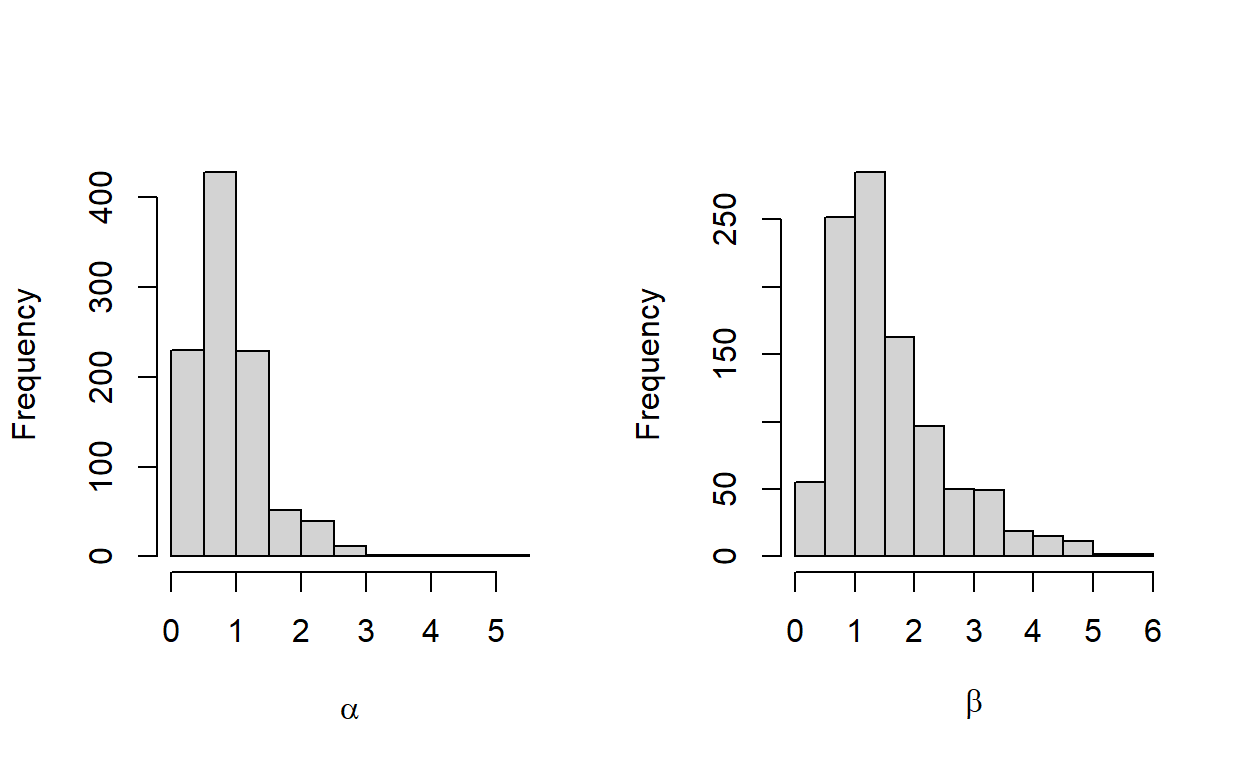
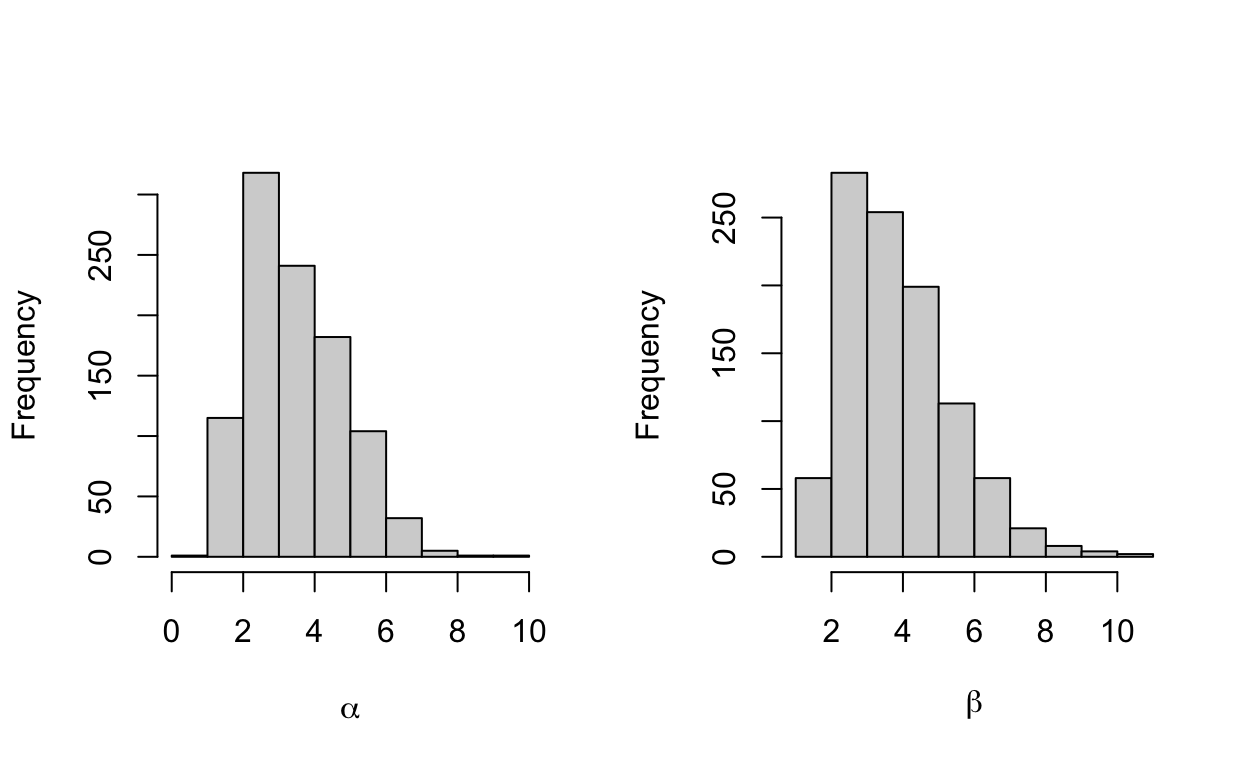
setting seeds

diff --git a/docs/gibbs.html b/docs/gibbs.html
@@ -2308,7 +2308,8 @@ b_{j+1}|a_{j+1},\vec{X}
 <p>Note that we are choosing to simulate a data distribution that matches our prior. Although this is unrealistic, it indicates that our Gibbs Sampling will be a good representation of our model.</p>
 <div class="layout-chunk" data-layout="l-body">
 <div class="sourceCode">
-<pre class="sourceCode r"><code class="sourceCode r"><span><span class='co'># store posterior samples of a and b</span></span>
+<pre class="sourceCode r"><code class="sourceCode r"><span><span class='fu'><a href='https://rdrr.io/r/base/Random.html'>set.seed</a></span><span class='op'>(</span><span class='fl'>1</span><span class='op'>)</span></span>
+<span><span class='co'># store posterior samples of a and b</span></span>
 <span><span class='va'>alphas</span> <span class='op'>&lt;-</span> <span class='fu'><a href='https://rdrr.io/r/base/c.html'>c</a></span><span class='op'>(</span><span class='op'>)</span></span>
 <span><span class='va'>betas</span> <span class='op'>&lt;-</span> <span class='fu'><a href='https://rdrr.io/r/base/c.html'>c</a></span><span class='op'>(</span><span class='op'>)</span></span>
 <span></span>
@@ -2326,7 +2327,8 @@ b_{j+1}|a_{j+1},\vec{X}
 <h2 id="run">Run!</h2>
 <div class="layout-chunk" data-layout="l-body">
 <div class="sourceCode">
-<pre class="sourceCode r"><code class="sourceCode r"><span><span class='co'># run for j (1000) iterations</span></span>
+<pre class="sourceCode r"><code class="sourceCode r"><span><span class='fu'><a href='https://rdrr.io/r/base/Random.html'>set.seed</a></span><span class='op'>(</span><span class='fl'>1</span><span class='op'>)</span></span>
+<span><span class='co'># run for j (1000) iterations</span></span>
 <span></span>
 <span><span class='kw'>for</span><span class='op'>(</span><span class='va'>i</span> <span class='kw'>in</span> <span class='fl'>2</span><span class='op'>:</span><span class='va'>j</span><span class='op'>)</span><span class='op'>{</span></span>
 <span><span class='co'># update a and b</span></span>
@@ -2341,18 +2343,20 @@ b_{j+1}|a_{j+1},\vec{X}
 <h2 id="visualizations">Visualizations</h2>
 <div class="layout-chunk" data-layout="l-body">
 <div class="sourceCode">
-<pre class="sourceCode r"><code class="sourceCode r"><span><span class='co'># Histogram of samples</span></span>
+<pre class="sourceCode r"><code class="sourceCode r"><span><span class='fu'><a href='https://rdrr.io/r/base/Random.html'>set.seed</a></span><span class='op'>(</span><span class='fl'>1</span><span class='op'>)</span></span>
+<span><span class='co'># Histogram of samples</span></span>
 <span><span class='fu'><a href='https://rdrr.io/r/graphics/par.html'>par</a></span><span class='op'>(</span>mfrow<span class='op'>=</span><span class='fu'><a href='https://rdrr.io/r/base/c.html'>c</a></span><span class='op'>(</span><span class='fl'>1</span>,<span class='fl'>2</span><span class='op'>)</span><span class='op'>)</span></span>
 <span><span class='fu'><a href='https://rdrr.io/r/graphics/hist.html'>hist</a></span><span class='op'>(</span><span class='va'>alphas</span>, xlab <span class='op'>=</span> <span class='fu'><a href='https://rdrr.io/r/base/expression.html'>expression</a></span><span class='op'>(</span><span class='va'>alpha</span><span class='op'>)</span>, main <span class='op'>=</span> <span class='st'>''</span><span class='op'>)</span></span>
 <span><span class='fu'><a href='https://rdrr.io/r/graphics/hist.html'>hist</a></span><span class='op'>(</span><span class='va'>betas</span>, xlab <span class='op'>=</span> <span class='fu'><a href='https://rdrr.io/r/base/expression.html'>expression</a></span><span class='op'>(</span><span class='va'>beta</span><span class='op'>)</span>, main <span class='op'>=</span> <span class='st'>''</span><span class='op'>)</span></span></code></pre>
 </div>
 <p><img src="gibbs_files/figure-html5/unnamed-chunk-4-1.png" width="624" /></p>
 </div>
-<p>This looks correct because our true values of a and b are 3 and 4 respectively.</p>
+<p>This looks correct because our true values of <span class="math inline">\(a\)</span> and <span class="math inline">\(b\)</span> are 3 and 4 respectively.</p>
 <p><em>Trace Plot: the behavior of the samples over j iterations:</em></p>
 <div class="layout-chunk" data-layout="l-body">
 <div class="sourceCode">
-<pre class="sourceCode r"><code class="sourceCode r"><span><span class='va'>iterations</span> <span class='op'>&lt;-</span> <span class='fl'>1</span><span class='op'>:</span><span class='va'>j</span></span>
+<pre class="sourceCode r"><code class="sourceCode r"><span><span class='fu'><a href='https://rdrr.io/r/base/Random.html'>set.seed</a></span><span class='op'>(</span><span class='fl'>1</span><span class='op'>)</span></span>
+<span><span class='va'>iterations</span> <span class='op'>&lt;-</span> <span class='fl'>1</span><span class='op'>:</span><span class='va'>j</span></span>
 <span><span class='fu'><a href='https://rdrr.io/r/graphics/par.html'>par</a></span><span class='op'>(</span>mfrow<span class='op'>=</span><span class='fu'><a href='https://rdrr.io/r/base/c.html'>c</a></span><span class='op'>(</span><span class='fl'>1</span>,<span class='fl'>2</span><span class='op'>)</span><span class='op'>)</span></span>
 <span><span class='fu'><a href='https://rdrr.io/r/graphics/plot.default.html'>plot</a></span><span class='op'>(</span><span class='va'>alphas</span> <span class='op'>~</span> <span class='va'>iterations</span>, xlab <span class='op'>=</span> <span class='st'>'Iteration'</span>, ylab <span class='op'>=</span> <span class='fu'><a href='https://rdrr.io/r/base/expression.html'>expression</a></span><span class='op'>(</span><span class='va'>alpha</span><span class='op'>)</span>, type <span class='op'>=</span> <span class='st'>'l'</span><span class='op'>)</span></span>
 <span><span class='fu'><a href='https://rdrr.io/r/graphics/abline.html'>abline</a></span><span class='op'>(</span>h <span class='op'>=</span> <span class='va'>a0</span>, col <span class='op'>=</span> <span class='st'>"red"</span><span class='op'>)</span></span>
@@ -2373,7 +2377,7 @@ b_{j+1}|a_{j+1},\vec{X}
 shaping the trace plots?</p>
 <p><em>ANSWERS</em>:
 From observing our trace plots, we can say that our Gibbs Sampler is a good simulation to find our true values. We can see that even though it starts at our initial values, it quickly jumps to fluctuate around our true values. We could say that there is a burn in period of about 100 trials for both parameters because it takes about 100 trials to converge around the true values.</p>
-<p>Many factors can determine our trace plots. Observed data (“Xsum”), (the way of choosing) the starting values of both parameters, sample size (“N”), number of
+<p>Many factors can determine our trace plots. Observed data (“Xsum”), (the way of choosing) the starting values of both parameters, sample size (“<span class="math inline">\(N\)</span>”), number of
 iterations (“<span class="math inline">\(j\)</span>”) - if we run for enough long time, the samples will
 converge and starting value does not matter that much. If we choose
 wisely on starting value, it may takes us less time to see that the
